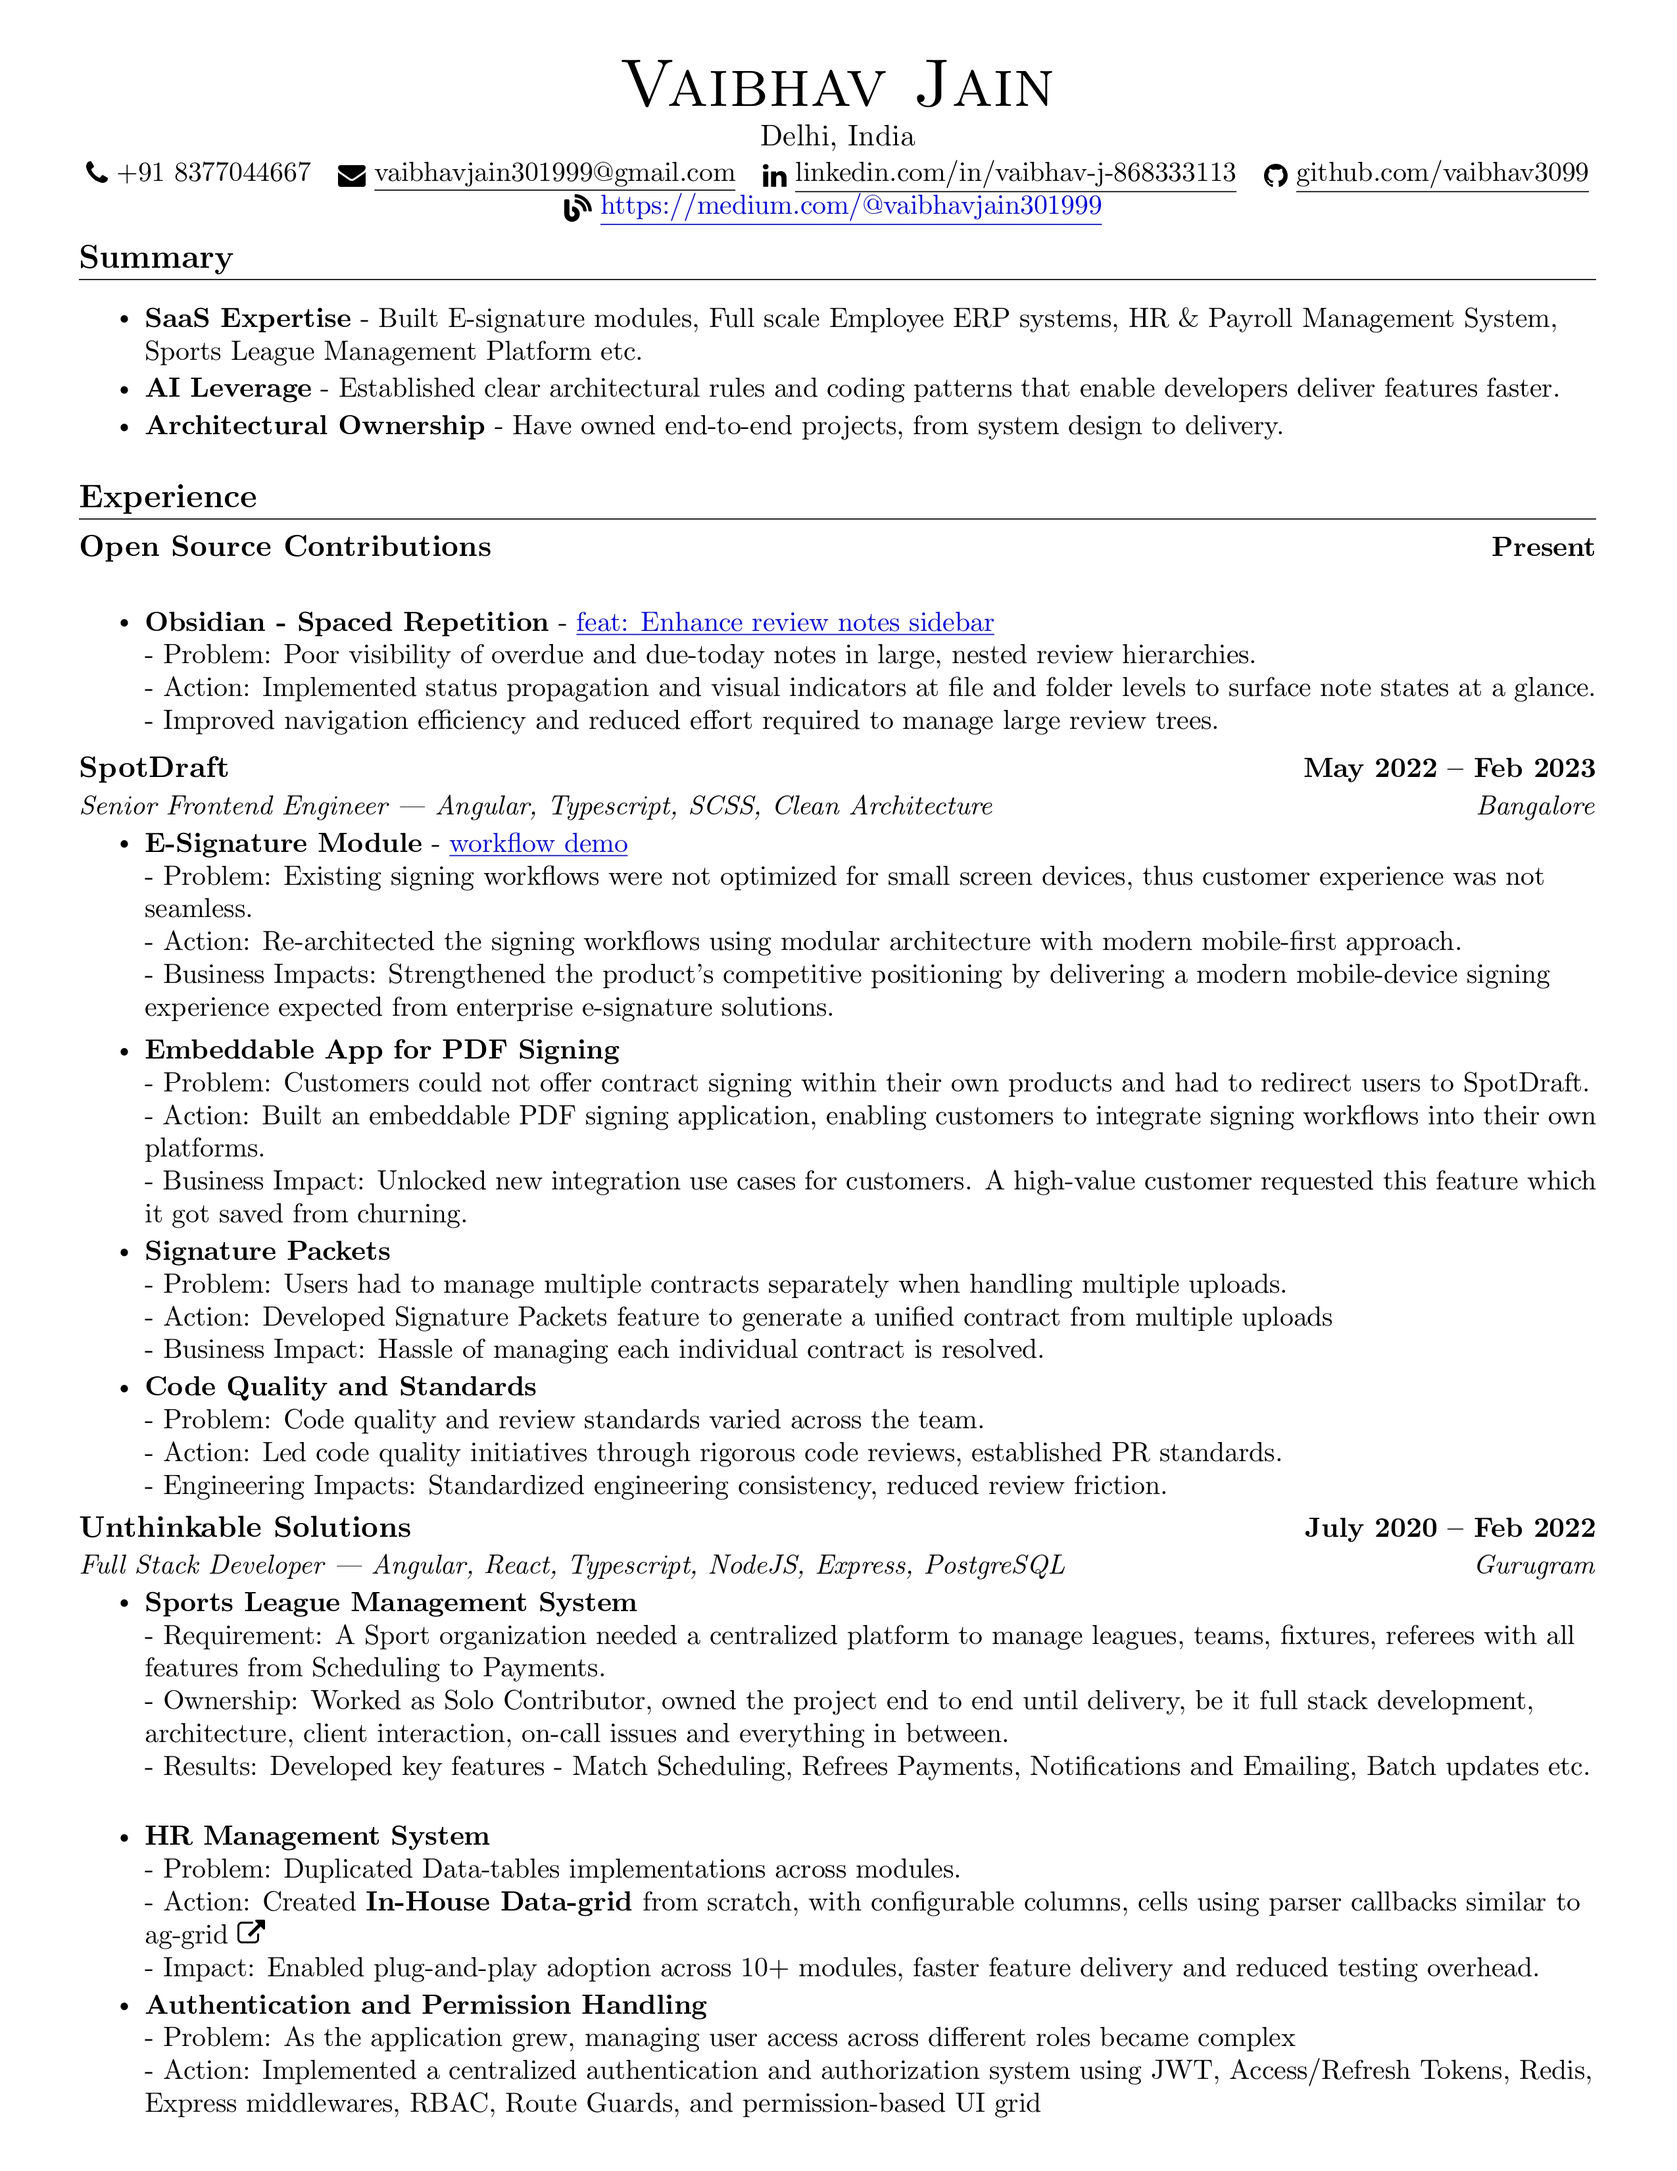
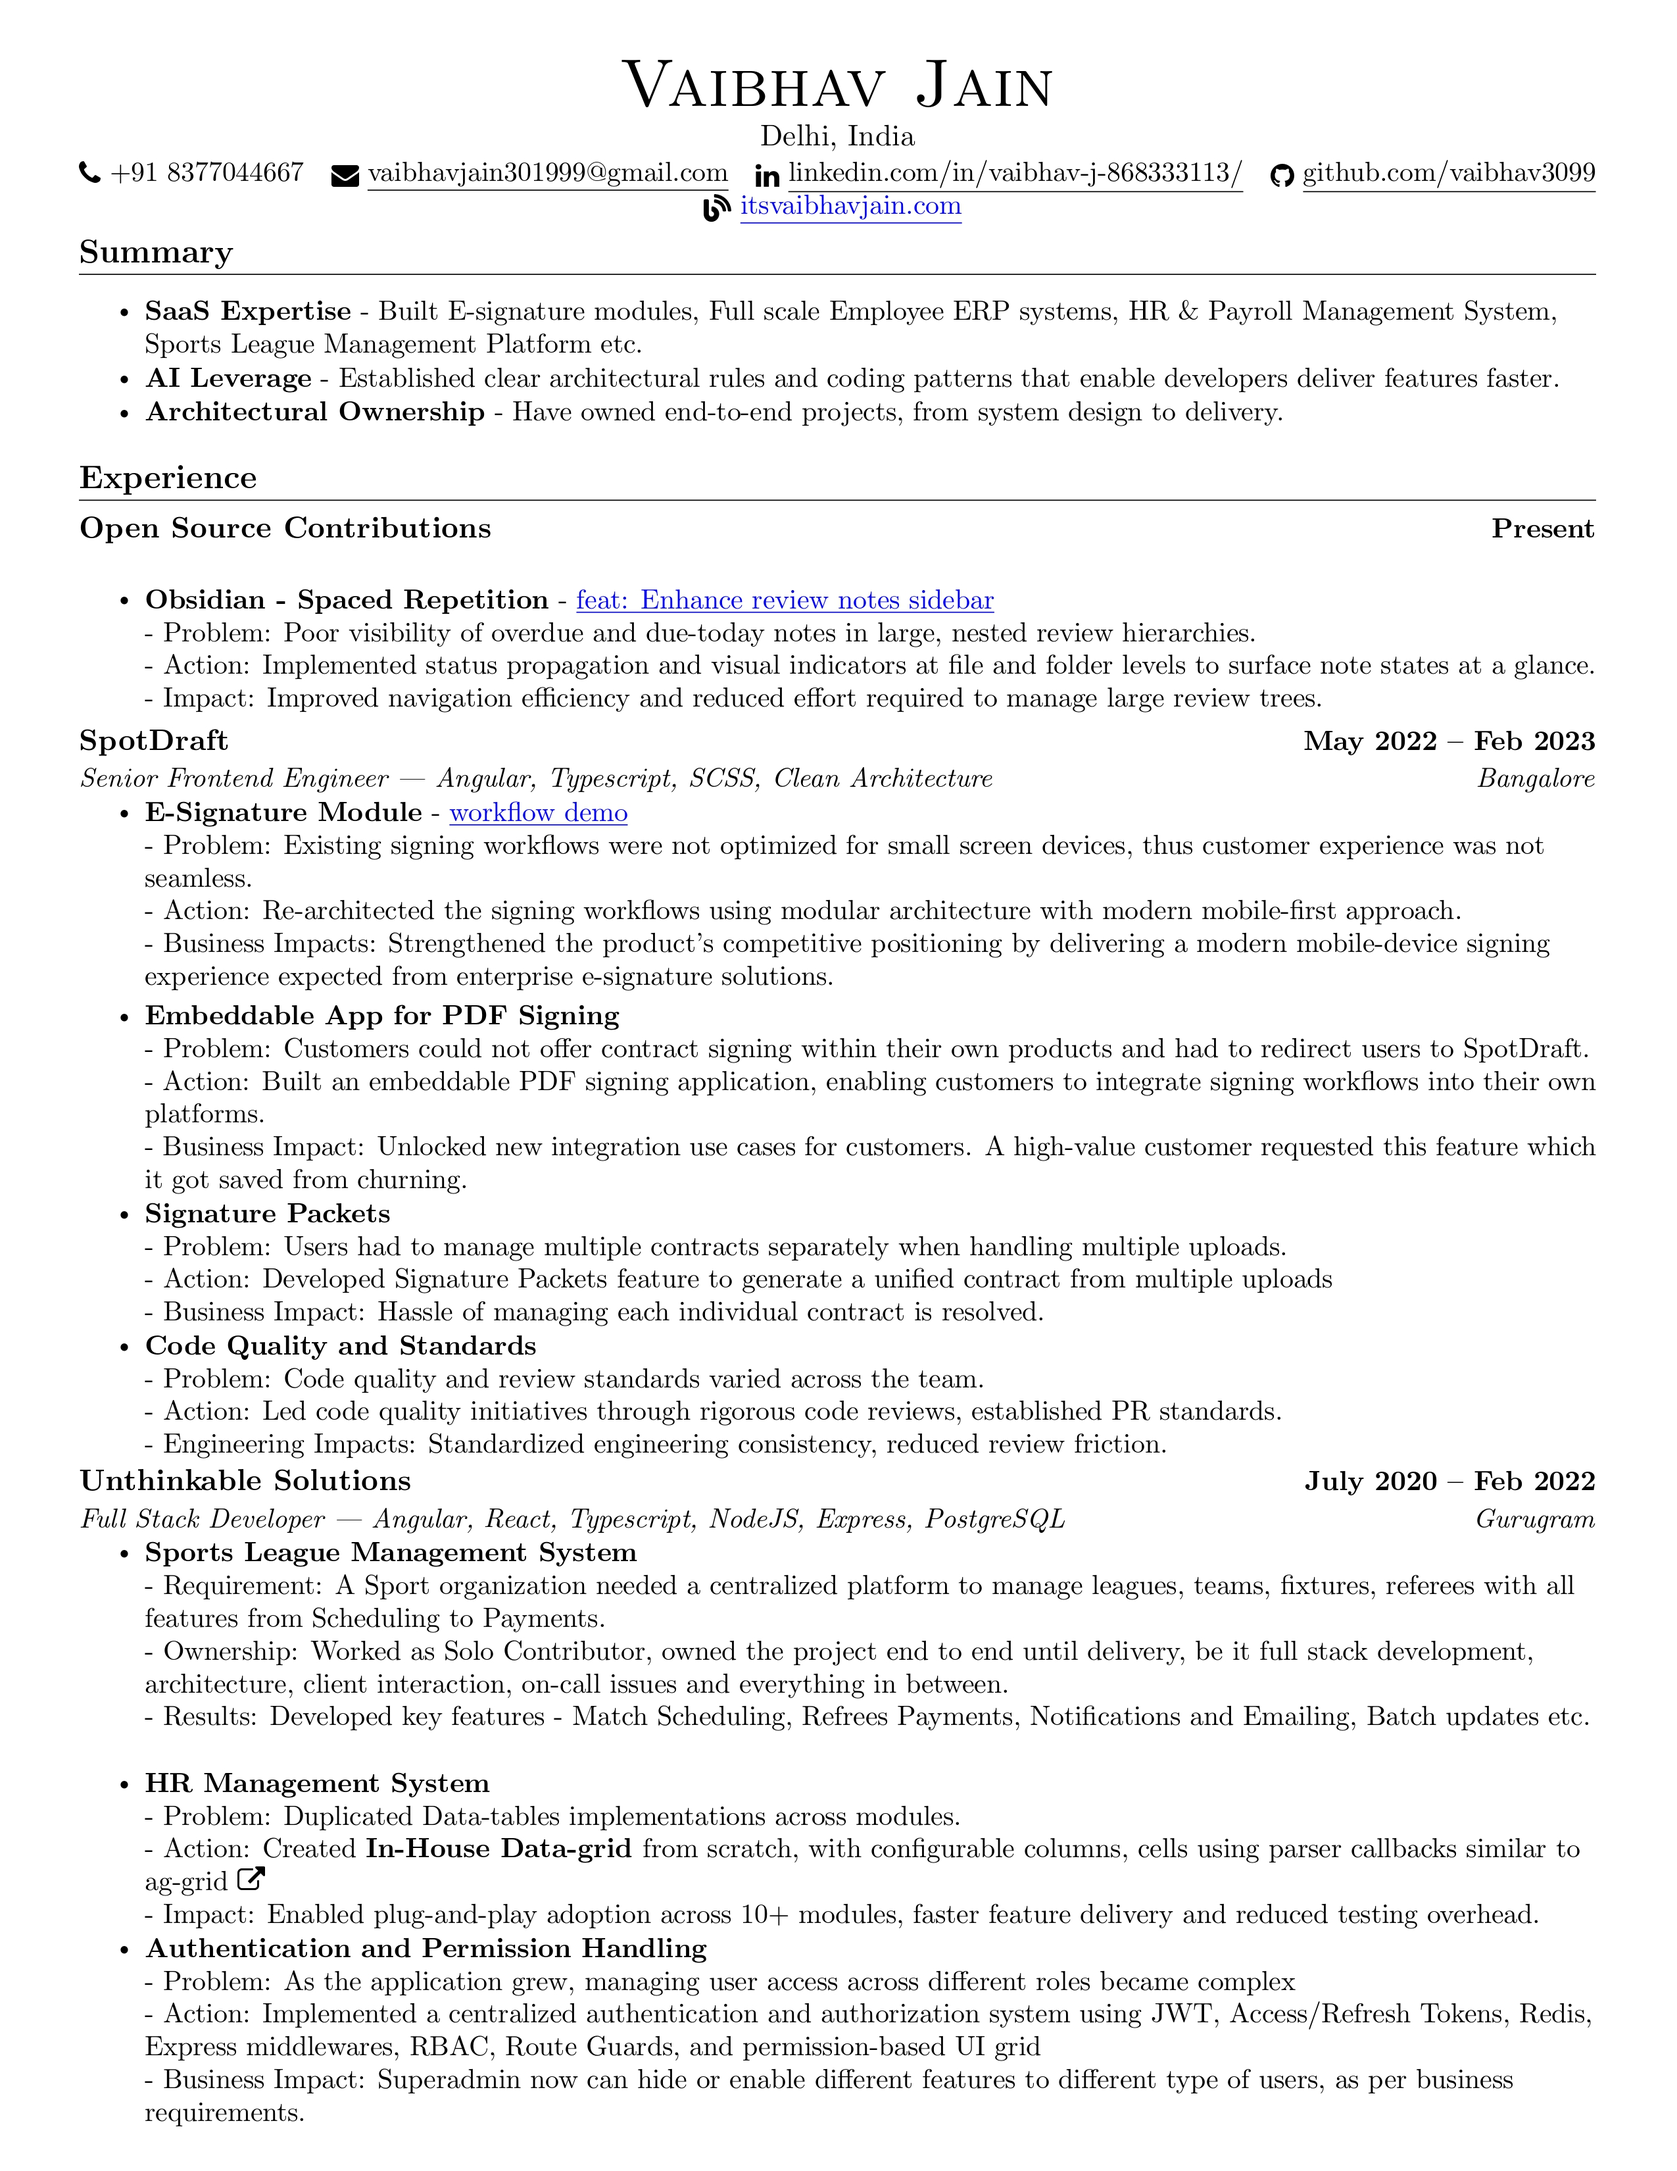
update: add portfolio link + replace tdg labs -> plivo

Changed region(s): [[0.031, 0.0624, 0.9604, 0.9988], [0.8675, 0.0624, 0.9604, 0.0936], [0.8984, 0.2185, 0.9604, 0.2497]]

diff --git a/angular specific resume.tex b/angular specific resume.tex
@@ -108,10 +108,12 @@
     {\Huge \scshape Vaibhav Jain} \\ \vspace{1pt}
     Delhi, India \\ \vspace{1pt}
     \small \raisebox{-0.1\height}\faPhone\ +91 8377044667 ~ \href{mailto:vaibhavjain301999@gmail.com}{\raisebox{-0.2\height}\faEnvelope\  \underline{vaibhavjain301999@gmail.com}} ~ 
-    \href{https://www.linkedin.com/in/vaibhav-j-868333113/}{\raisebox{-0.2\height}\faLinkedin\ \underline{linkedin.com/in/vaibhav-j-868333113}}  ~
+    \href{https://www.linkedin.com/in/vaibhav-j-868333113/}{\raisebox{-0.2\height}\faLinkedin\ \underline{linkedin.com/in/vaibhav-j-868333113/}}  ~
     \href{https://github.com/vaibhav3099}
     {\raisebox{-0.2\height}\faGithub\ \underline{github.com/vaibhav3099}}
-    {\raisebox{-0.2\height}\faBlog\ \textcolor{blue}{\underline{https://medium.com/@vaibhavjain301999}}}
+    
+    \href{https://itsvaibhavjain.com}
+    {\raisebox{-0.2\height}\faBlog\ \textcolor{blue}{\underline{itsvaibhavjain.com}}}
     \vspace{-8pt}
 \end{center}
 
@@ -143,7 +145,7 @@
 \textbf{Obsidian - Spaced Repetition} - \href{https://github.com/st3v3nmw/obsidian-spaced-repetition/pull/1585}{\textcolor{blue}{\underline{feat: Enhance review notes sidebar}}}
 \newline - Problem: Poor visibility of overdue and due-today notes in large, nested review hierarchies.
 \newline - Action: Implemented status propagation and visual indicators at file and folder levels to surface note states at a glance.
-\newline - Improved navigation efficiency and reduced effort required to manage large review trees.}
+\newline - Impact: Improved navigation efficiency and reduced effort required to manage large review trees.}
 \resumeItemListEnd
 %---- changes end
 
@@ -206,7 +208,7 @@
 }
 \resumeItemListEnd
 
-\resumeSubheading{TDG Labs}{Jan 2020 -- July 2020 }{Software Engineer | \textit{React, Redux, Material UI (MUI)}}{Delhi}
+\resumeSubheading{Plivo}{Jan 2020 -- July 2020 }{Software Engineer | \textit{React, Redux, Material UI (MUI)}}{Delhi}
 \resumeItemListStart
 
 \resumeItem{
